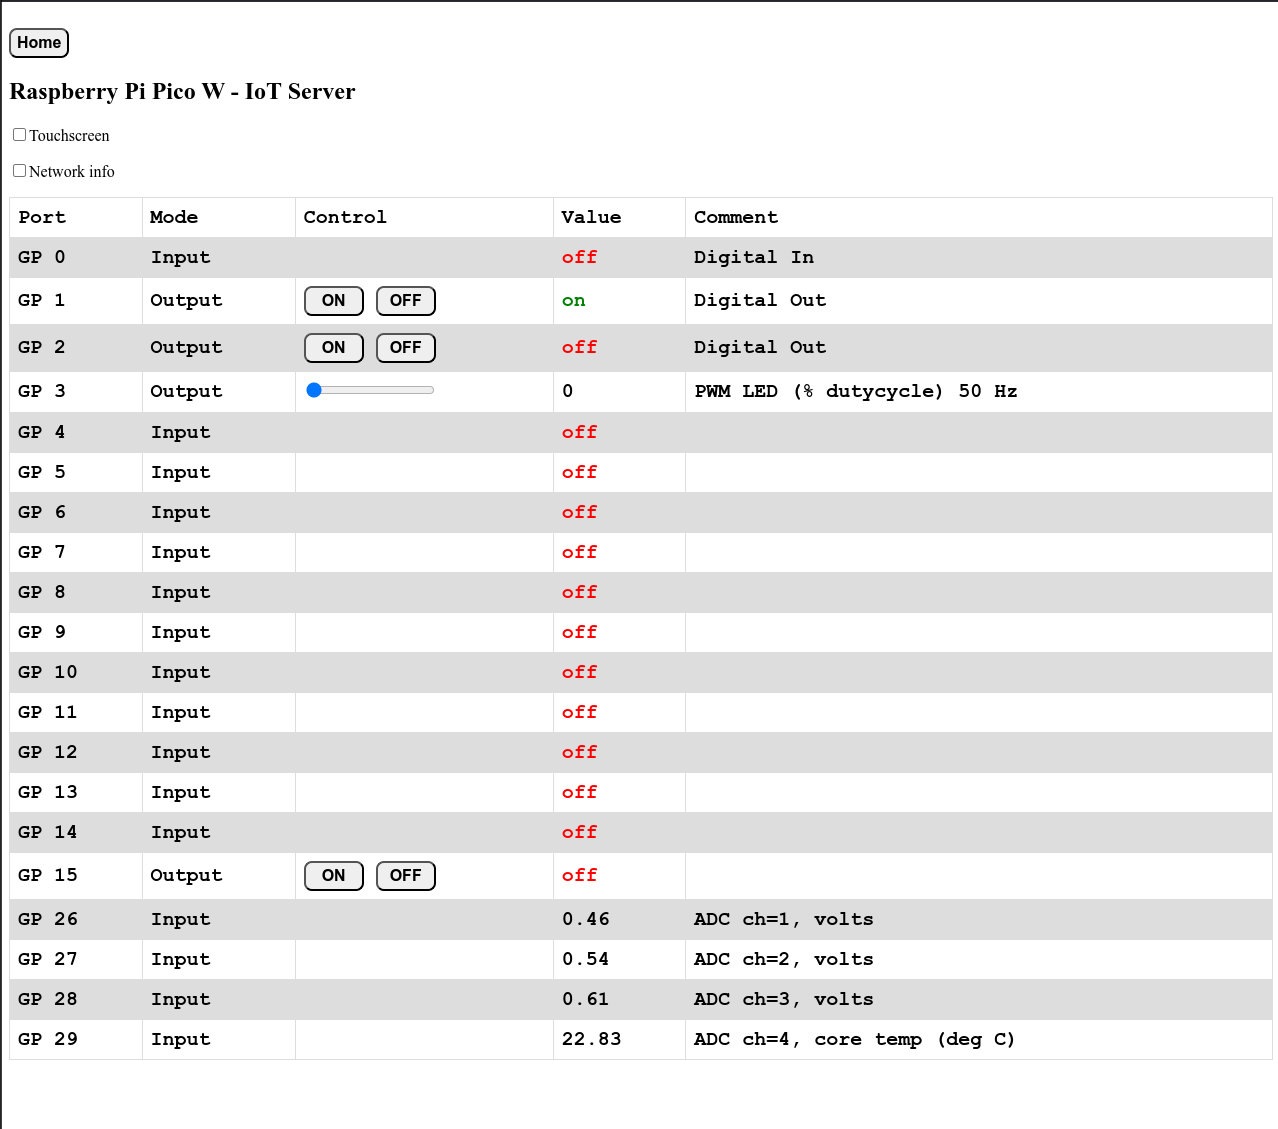
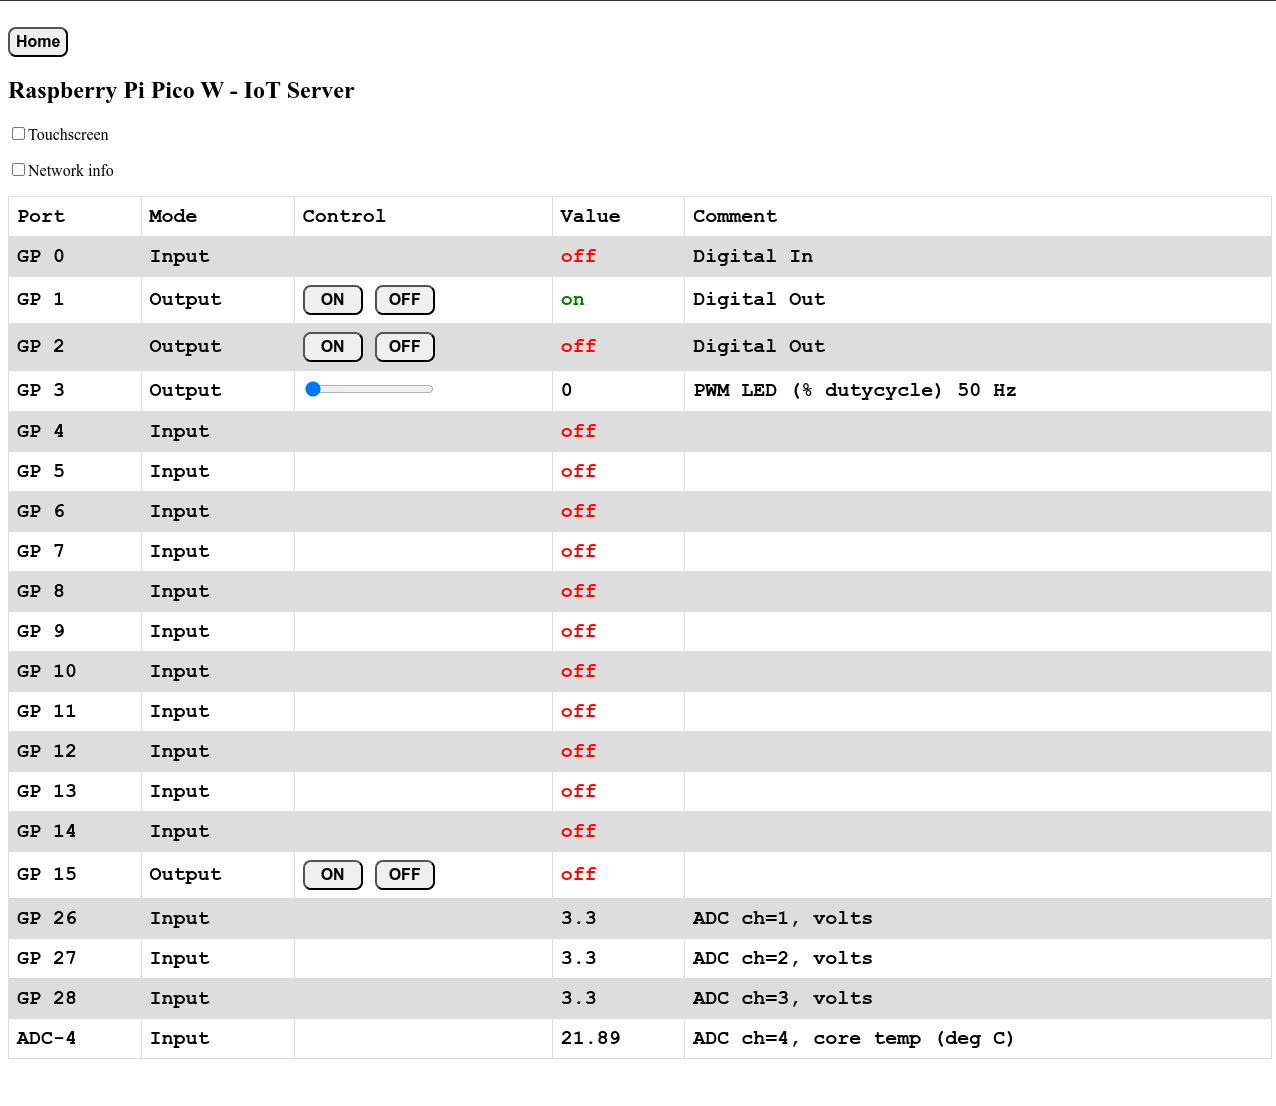
Updated Raspberry-Pi-Pico-W-IoT-Server.png

Changed region(s): [[0.0, 0.0, 1.0, 0.953]]

diff --git a/README.md b/README.md
@@ -46,7 +46,7 @@ To adapt the software for your needs, the simplest way of doing this is to chang
     [1, 2, 0, "GP 26", "ADC ch=1, volts"],
     [1, 2, 0, "GP 27", "ADC ch=2, volts"],
     [1, 2, 0, "GP 28", "ADC ch=3, volts"],
-    [1, 2, 0, "GP 29", "ADC ch=4, core temp (deg C)"]
+    [1, 2, 0, "ADC-4", "ADC ch=4, core temp (deg C)"]
 
 When using av device with touch-screen, you must activate use of touchscreen with the onscreen checkbox. If not, the sliders will probably not work.
 
